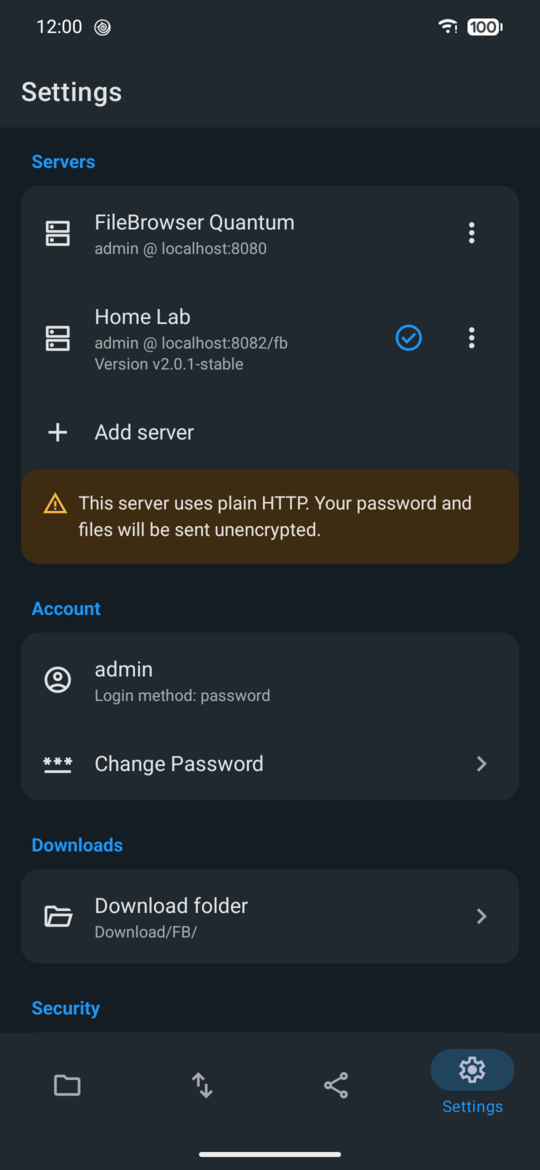
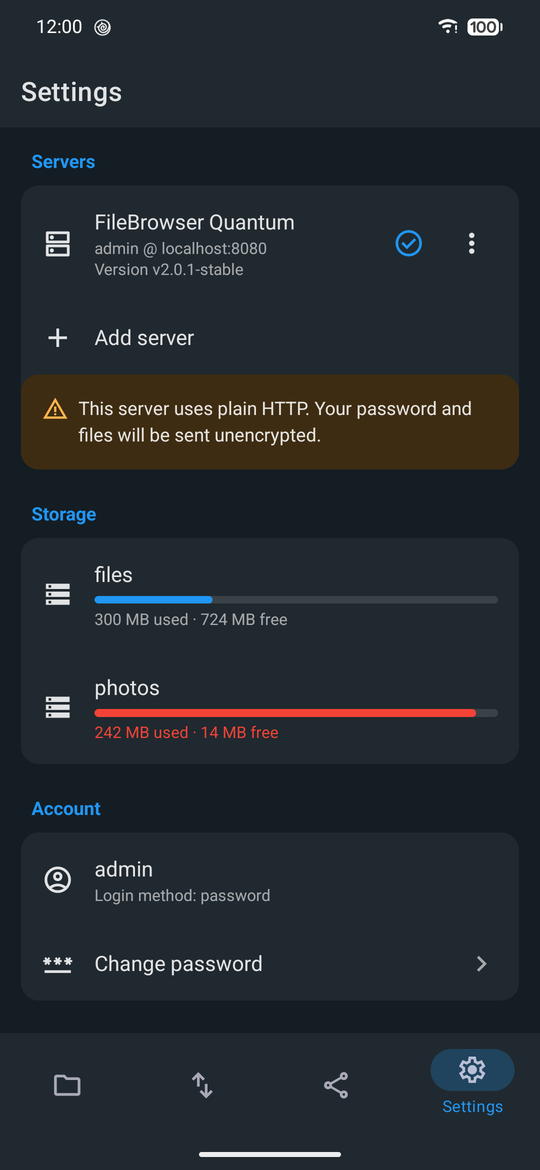
docs(readme): describe server gaps the app works around
Also update the settings screenshot to show storage usage and the almost-full warning.

diff --git a/README.md b/README.md
@@ -10,7 +10,7 @@ stay in the web UI.
   <img src="docs/screenshots/photos.png" width="200" alt="Photos folder in grid view with thumbnails">
   <img src="docs/screenshots/actions.png" width="200" alt="Actions for a file">
   <img src="docs/screenshots/share.png" width="200" alt="A share with its preview and download links">
-  <img src="docs/screenshots/settings.png" width="200" alt="Settings with two servers">
+  <img src="docs/screenshots/settings.png" width="200" alt="Settings with storage usage, one source almost full">
 </p>
 
 ## Features
@@ -68,6 +68,23 @@ The scope is narrow on purpose:
   A smaller app keeps that realistic.
 
 Anything the app leaves out is still in the web UI on the same server.
+
+### Gaps in the server it works around
+
+Checked against the v2.0.1-stable source:
+
+- **Free space before uploads.** The server doesn't check free space. It writes an upload until
+  the disk is full and then fails it. The app checks first, counting uploads still waiting in
+  the queue, and stops uploads that wouldn't fit. It also warns once less than 10% of a disk is
+  free.
+- **Usage that lags behind.** The server caches disk usage for 30 seconds, and its indexed
+  "used" figure can trail uploads and deletes for longer, in the web UI too. The app shows the
+  size of the source's root folder, which is always current, and updates free space as soon as
+  its own uploads and deletes finish.
+- **Interrupted large uploads.** The server keeps a partial file but locks its path to the
+  upload that started it for 30 minutes, so starting over gets a conflict. The app remembers
+  that upload, so retrying, even after the app was closed, picks up from the last chunk the
+  server confirmed.
 
 ## Requirements
 
